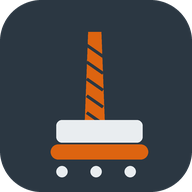
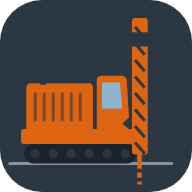
Новый значок приложения: буровая JK830-2 в работе
- Иконки 192/512, maskable 512 и apple-touch-icon с силуэтом JK830-2
- Версия офлайн-кэша jk830-v3, чтобы телефоны подхватили новые иконки

Claude-Session: https://claude.ai/code/session_019iS4aVmua2TvE3ShdQzzVi

diff --git a/sw.js b/sw.js
@@ -1,6 +1,6 @@
 /* Журнал машиниста буровой установки — офлайн-кэш.
    При выпуске новой версии увеличь номер VERSION, иначе телефоны не получат обновление. */
-const VERSION = 'jk830-v2';
+const VERSION = 'jk830-v3';
 const FILES = ['./', 'index.html', 'manifest.json', 'icon-192.png', 'icon-512.png', 'icon-maskable-512.png', 'apple-touch-icon.png'];
 
 self.addEventListener('install', e => {
